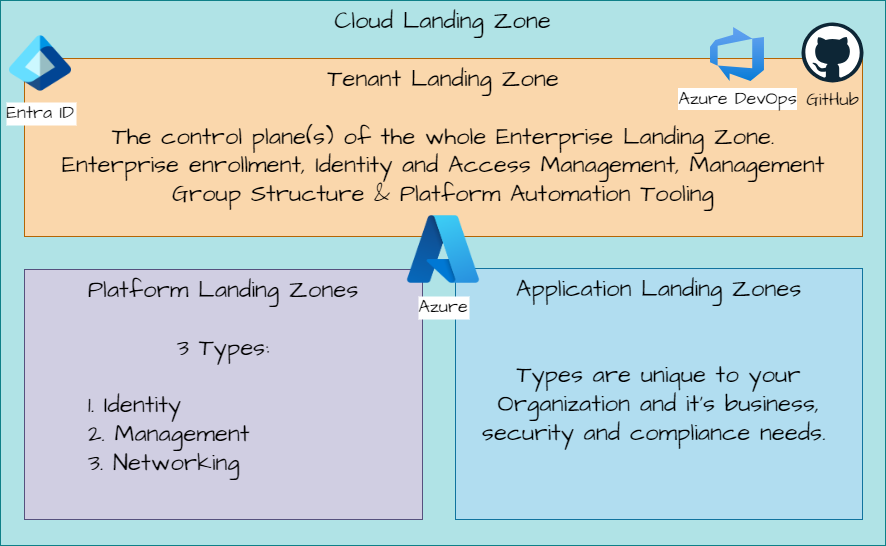
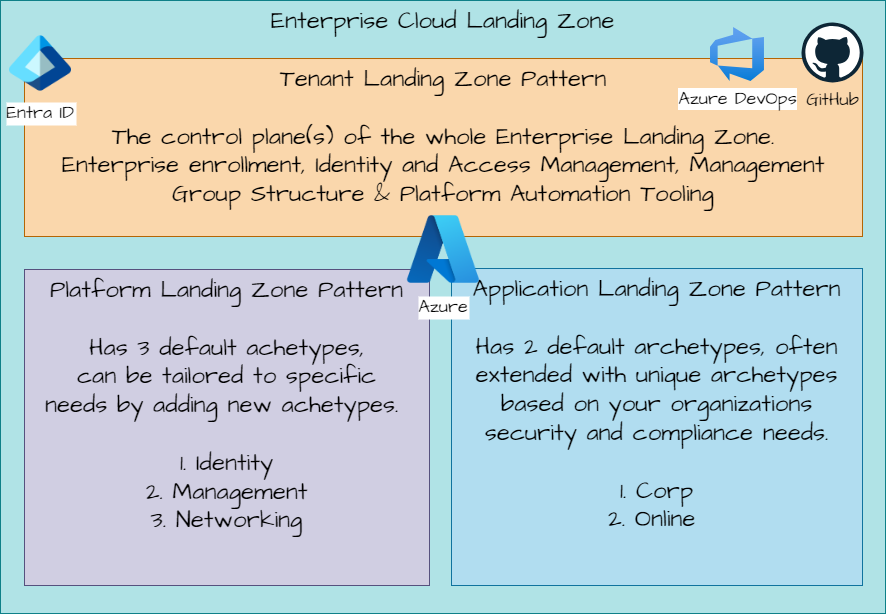
Final blog update change based on feedback and review

diff --git a/posts/2024/decoding-microsoft-azure-landing-zones-explained/index.html b/posts/2024/decoding-microsoft-azure-landing-zones-explained/index.html
@@ -43,7 +43,7 @@
                             "url": "https:\/\/www.devjev.nl\/posts\/2024\/decoding-microsoft-azure-landing-zones-explained\/featured-image.png",
                             "width":  620 ,
                             "height":  464 
-                        }],"genre": "posts","keywords": "Azure Landing Zones, Platform Landing Zone, Application Landing Zone, Tenant Landing Zone, Microsoft Azure, Cloud Infrastructure","wordcount":  664 ,
+                        }],"genre": "posts","keywords": "Azure Landing Zones, Platform Landing Zone, Application Landing Zone, Tenant Landing Zone, Microsoft Azure, Cloud Infrastructure","wordcount":  700 ,
         "url": "https:\/\/www.devjev.nl\/posts\/2024\/decoding-microsoft-azure-landing-zones-explained\/","datePublished": "2024-12-16T02:00:00+02:00","dateModified": "2024-12-23T02:00:00+02:00","publisher": {
             "@type": "Organization",
             "name": "Jev"},"author": {
@@ -119,7 +119,7 @@
         </div><article class="page single"><h1 class="single-title animate__animated animate__flipInX"> 🔍 Decoding Microsoft Azure: Landing Zones Explained 🛬</h1><div class="post-meta">
             <div class="post-meta-line"><span class="post-author"><a href="/" title="Author" rel=" author" class="author"><i class="fas fa-user-circle fa-fw" aria-hidden="true"></i>Jev</a>
 </span>&nbsp;<span class="post-category">included in <a href="/categories/azure/"><i class="far fa-folder fa-fw" aria-hidden="true"></i>Azure</a>&nbsp;<a href="/categories/azure-landing-zones/"><i class="far fa-folder fa-fw" aria-hidden="true"></i>Azure Landing Zones</a>&nbsp;<a href="/categories/cloud-infrastructure/"><i class="far fa-folder fa-fw" aria-hidden="true"></i>Cloud Infrastructure</a></span></div>
-            <div class="post-meta-line"><i class="far fa-calendar-alt fa-fw" aria-hidden="true"></i>&nbsp;<time datetime="2024-12-16">2024-12-16</time>&nbsp;&nbsp;<i class="fas fa-pencil-alt fa-fw" aria-hidden="true"></i>&nbsp;664 words&nbsp;
+            <div class="post-meta-line"><i class="far fa-calendar-alt fa-fw" aria-hidden="true"></i>&nbsp;<time datetime="2024-12-16">2024-12-16</time>&nbsp;&nbsp;<i class="fas fa-pencil-alt fa-fw" aria-hidden="true"></i>&nbsp;700 words&nbsp;
                 <i class="far fa-clock fa-fw" aria-hidden="true"></i>&nbsp;4 minutes&nbsp;</div>
         </div><div class="featured-image"><img
         class="lazyload"
@@ -152,16 +152,22 @@
 <p>Microsoft defines an Azure Landing Zone as:</p>
 <blockquote>
 <p>An Azure landing zone is an environment that follows key design principles across eight design areas.</p>
+<p>These design principles accommodate all application portfolios and enable application migration, modernization, and innovation at scale.</p>
 </blockquote>
 <p>The concept includes <strong>Platform Landing Zones</strong> and <strong>Application Landing Zones</strong>:</p>
 <ul>
 <li><strong>Platform Landing Zone</strong>:
-<code>A platform landing zone is a subscription that provides shared services (identity, connectivity, management) to applications in application landing zones.</code></li>
+<blockquote>
+<p>A platform landing zone is a subscription that provides shared services (identity, connectivity, management) to applications in application landing zones.</p>
+</blockquote>
+</li>
 <li><strong>Application Landing Zone</strong>:
-<code>An application landing zone is a subscription for hosting an application.</code></li>
+<blockquote>
+<p>An application landing zone is a subscription for hosting an application.</p>
+</blockquote>
+</li>
 </ul>
-<p>From a mathematical perspective, this makes sense due to the <a href="https://en.wikipedia.org/wiki/Set_theory" target="_blank" rel="noopener noreffer">Set Theory</a>
-. The conceptual architecture is visualized in the following figure:</p>
+<p>The conceptual architecture of this Azure Landing Zone is shown in the following figure:</p>
 <figure><a class="lightgallery" href="https://learn.microsoft.com/en-us/azure/cloud-adoption-framework/ready/enterprise-scale/media/azure-landing-zone-architecture-diagram-hub-spoke.svg?wt.mc_id=DT-MVP-5005327" title="https://learn.microsoft.com/en-us/azure/cloud-adoption-framework/ready/enterprise-scale/media/azure-landing-zone-architecture-diagram-hub-spoke.svg?wt.mc_id=DT-MVP-5005327" data-thumbnail="https://learn.microsoft.com/en-us/azure/cloud-adoption-framework/ready/enterprise-scale/media/azure-landing-zone-architecture-diagram-hub-spoke.svg?wt.mc_id=DT-MVP-5005327" data-sub-html="<h2>Azure landing zone conceptual architecture</h2>">
         <img
             class="lazyload"
@@ -196,7 +202,7 @@
 <li><strong>Platform Landing Zones</strong></li>
 <li><strong>Application Landing Zones</strong></li>
 </ul>
-<p>However, not all depicted components fit neatly into these categories. As shown in the following figure</p>
+<p>However, not all depicted components are part of two these categories. As shown in the following figure:</p>
 <figure><a class="lightgallery" href="/posts/2024/decoding-microsoft-azure-landing-zones-explained/2-azure-landing-zone-architecture-diagram-hub-spoke_microsoft-zones.png" title="/posts/2024/decoding-microsoft-azure-landing-zones-explained/2-azure-landing-zone-architecture-diagram-hub-spoke_microsoft-zones.png" data-thumbnail="/posts/2024/decoding-microsoft-azure-landing-zones-explained/2-azure-landing-zone-architecture-diagram-hub-spoke_microsoft-zones.png" data-sub-html="<h2>Azure Landing Zone in perspective</h2>">
         <img
             class="lazyload"
@@ -208,7 +214,8 @@
     </a><figcaption class="image-caption">Azure Landing Zone in perspective</figcaption>
     </figure>
 <p>To clarify the Landing Zones within the <strong>Enterprise Cloud Landing Zone</strong>, I suggest viewing them as <strong>patterns</strong>, similar to <a href="https://learn.microsoft.com/en-us/azure/architecture/patterns/?wt.mc_id=DT-MVP-5005327" target="_blank" rel="noopener noreffer">Cloud Design Patterns</a>
-. These patterns help organize the conceptual architecture and provide a consistent framework for understanding.
+. These patterns help organize the conceptual architecture and provide a consistent framework for understanding. The <strong>pattern</strong> naming compliments the <a href="https://learn.microsoft.com/en-us/azure/cloud-adoption-framework/ready/landing-zone/tailoring-alz#what-is-a-landing-zone-archetype-in-azure-landing-zones?wt.mc_id=DT-MVP-5005327" target="_blank" rel="noopener noreffer">Landing Zone Archetypes</a>
+ explained in the Microsoft Azure Landing Zone documentation.<br>
 Once we establish this perspective, we can introduce the <strong>Tenant Landing Zone</strong>. This addition expands the concept to encompass all essential components, completing the picture as shown below:</p>
 <figure><a class="lightgallery" href="/posts/2024/decoding-microsoft-azure-landing-zones-explained/enterprise-cloud-landing-zone-concept_2.png" title="/posts/2024/decoding-microsoft-azure-landing-zones-explained/enterprise-cloud-landing-zone-concept_2.png" data-thumbnail="/posts/2024/decoding-microsoft-azure-landing-zones-explained/enterprise-cloud-landing-zone-concept_2.png" data-sub-html="<h2>Landing Zone Patterns</h2>">
         <img
@@ -217,12 +224,12 @@ Once we establish this perspective, we can introduce the <strong>Tenant Landing 
             data-src="/posts/2024/decoding-microsoft-azure-landing-zones-explained/enterprise-cloud-landing-zone-concept_2.png"
             data-srcset="/posts/2024/decoding-microsoft-azure-landing-zones-explained/enterprise-cloud-landing-zone-concept_2.png, /posts/2024/decoding-microsoft-azure-landing-zones-explained/enterprise-cloud-landing-zone-concept_2.png 1.5x, /posts/2024/decoding-microsoft-azure-landing-zones-explained/enterprise-cloud-landing-zone-concept_2.png 2x"
             data-sizes="auto"
-            alt="/posts/2024/decoding-microsoft-azure-landing-zones-explained/enterprise-cloud-landing-zone-concept_2.png" width="886" height="546" />
+            alt="/posts/2024/decoding-microsoft-azure-landing-zones-explained/enterprise-cloud-landing-zone-concept_2.png" width="886" height="614" />
     </a><figcaption class="image-caption">Landing Zone Patterns</figcaption>
     </figure>
 <h2 id="plotting-patterns-to-azure-landing-zones">Plotting Patterns to Azure Landing Zones</h2>
-<p>By overlaying these patterns onto Microsoft&rsquo;s conceptual architecture, the picture becomes clearer:</p>
-<figure><a class="lightgallery" href="/posts/2024/decoding-microsoft-azure-landing-zones-explained/3-azure-landing-zone-architecture-diagram-hub-spoke_microsoft-zones.png" title="/posts/2024/decoding-microsoft-azure-landing-zones-explained/3-azure-landing-zone-architecture-diagram-hub-spoke_microsoft-zones.png" data-thumbnail="/posts/2024/decoding-microsoft-azure-landing-zones-explained/3-azure-landing-zone-architecture-diagram-hub-spoke_microsoft-zones.png" data-sub-html="<h2>Landing Zone Patterns Plotted on Azure</h2>">
+<p>By overlaying the patterns onto Microsoft&rsquo;s conceptual architecture, the picture becomes complete and unambiguous:</p>
+<figure><a class="lightgallery" href="/posts/2024/decoding-microsoft-azure-landing-zones-explained/3-azure-landing-zone-architecture-diagram-hub-spoke_microsoft-zones.png" title="/posts/2024/decoding-microsoft-azure-landing-zones-explained/3-azure-landing-zone-architecture-diagram-hub-spoke_microsoft-zones.png" data-thumbnail="/posts/2024/decoding-microsoft-azure-landing-zones-explained/3-azure-landing-zone-architecture-diagram-hub-spoke_microsoft-zones.png" data-sub-html="<h2>Landing Zone Patterns Plotted on Azure conceptual architecture</h2>">
         <img
             class="lazyload"
             src="/svg/loading.min.svg"
@@ -230,7 +237,7 @@ Once we establish this perspective, we can introduce the <strong>Tenant Landing 
             data-srcset="/posts/2024/decoding-microsoft-azure-landing-zones-explained/3-azure-landing-zone-architecture-diagram-hub-spoke_microsoft-zones.png, /posts/2024/decoding-microsoft-azure-landing-zones-explained/3-azure-landing-zone-architecture-diagram-hub-spoke_microsoft-zones.png 1.5x, /posts/2024/decoding-microsoft-azure-landing-zones-explained/3-azure-landing-zone-architecture-diagram-hub-spoke_microsoft-zones.png 2x"
             data-sizes="auto"
             alt="/posts/2024/decoding-microsoft-azure-landing-zones-explained/3-azure-landing-zone-architecture-diagram-hub-spoke_microsoft-zones.png" width="1800" height="1100" />
-    </a><figcaption class="image-caption">Landing Zone Patterns Plotted on Azure</figcaption>
+    </a><figcaption class="image-caption">Landing Zone Patterns Plotted on Azure conceptual architecture</figcaption>
     </figure>
 <h2 id="from-patterns-to-implementation">From Patterns to Implementation</h2>
 <p>Understanding Landing Zones conceptually is just the beginning. Implementation involves aligning these patterns with organizational goals, technical requirements, and governance models. Here&rsquo;s how each pattern contributes:</p>
@@ -245,11 +252,11 @@ Ensures proper governance and segmentation for managing <a href="https://learn.m
  or <a href="https://github.com/" target="_blank" rel="noopener noreffer">GitHub</a>
 .</li>
 </ul>
-<p>When implemented effectively, these patterns form a scalable and secure foundation for enterprise cloud adoption. The challenge lies in tailoring them to your organization&rsquo;s unique requirements and trade-offs.</p>
+<p>When implemented effectively, these patterns combined with the archetypes form a scalable and secure foundation for enterprise cloud adoption. The challenge lies in tailoring them to your organization&rsquo;s unique requirements and trade-offs.</p>
 <h2 id="wrapping-up">Wrapping Up</h2>
 <p>Azure Landing Zones are more than just technical constructs—they&rsquo;re a strategic approach to cloud adoption. By understanding the patterns behind Platform, Application, and Tenant Landing Zones, you can design a cloud environment that meets your needs today and scales for tomorrow.</p>
 <p>Remember, a well-designed Landing Zone isn&rsquo;t just about technology—it&rsquo;s about aligning people, processes, and tools to create a cohesive enterprise cloud strategy.</p>
-<p>I couldn&rsquo;t resist to warp this subject up with a meme:
+<p>I couldn&rsquo;t resist to wrap this subject up with a meme:
 <figure><a class="lightgallery" href="/posts/2024/decoding-microsoft-azure-landing-zones-explained/meme-landing-zones-in-landing-zones.png" title="/posts/2024/decoding-microsoft-azure-landing-zones-explained/meme-landing-zones-in-landing-zones.png" data-thumbnail="/posts/2024/decoding-microsoft-azure-landing-zones-explained/meme-landing-zones-in-landing-zones.png" data-sub-html="<h2>Meme - Landing Zone with Landing Zones</h2>">
         <img
             class="lazyload"
@@ -266,6 +273,8 @@ Ensures proper governance and segmentation for managing <a href="https://learn.m
 <li><a href="https://learn.microsoft.com/en-us/azure/cloud-adoption-framework/ready/landing-zone?wt.mc_id=DT-MVP-5005327" target="_blank" rel="noopener noreffer">What is an Azure landing zone?</a>
 </li>
 <li><a href="https://learn.microsoft.com/en-us/azure/cloud-adoption-framework/ready/landing-zone/design-areas?wt.mc_id=DT-MVP-5005327" target="_blank" rel="noopener noreffer">Azure landing zone design areas and conceptual architecture</a>
+</li>
+<li><a href="https://learn.microsoft.com/en-us/azure/cloud-adoption-framework/ready/landing-zone/tailoring-alz#what-is-a-landing-zone-archetype-in-azure-landing-zones?wt.mc_id=DT-MVP-5005327" target="_blank" rel="noopener noreffer">Landing Zone Archetypes</a>
 </li>
 </ul>
 <p><strong>Thanks for reading!</strong></p>
